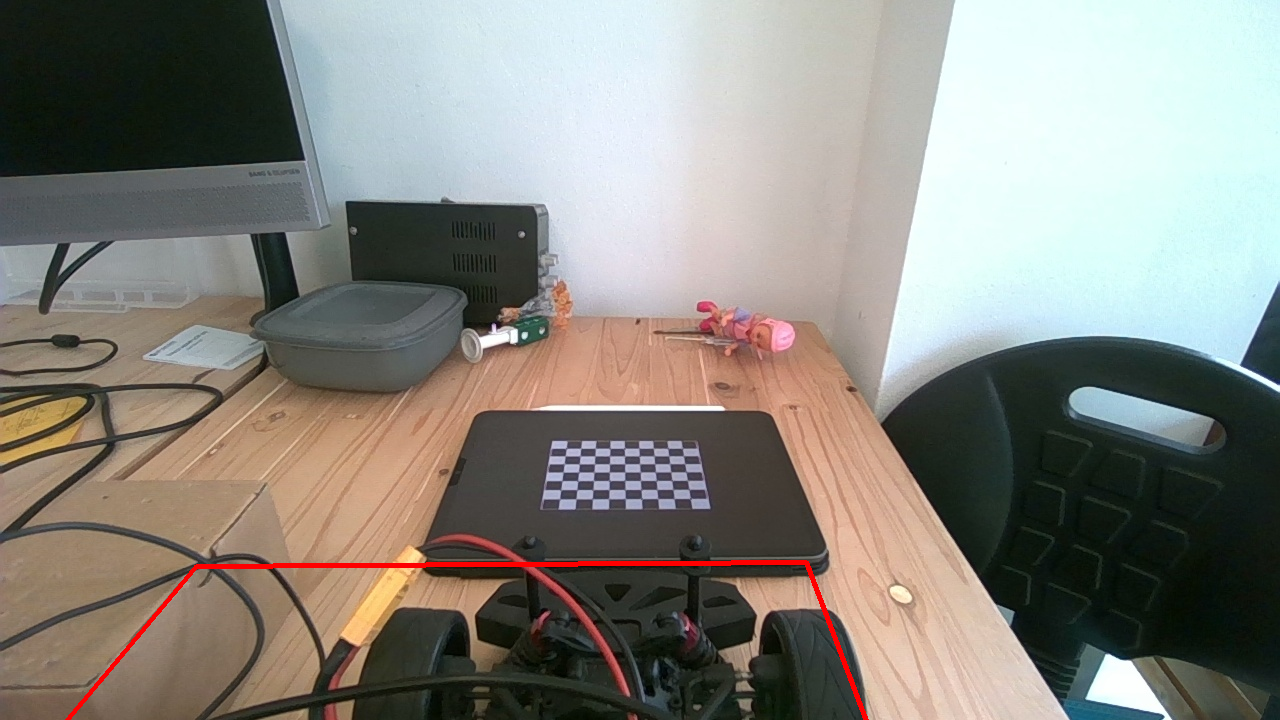
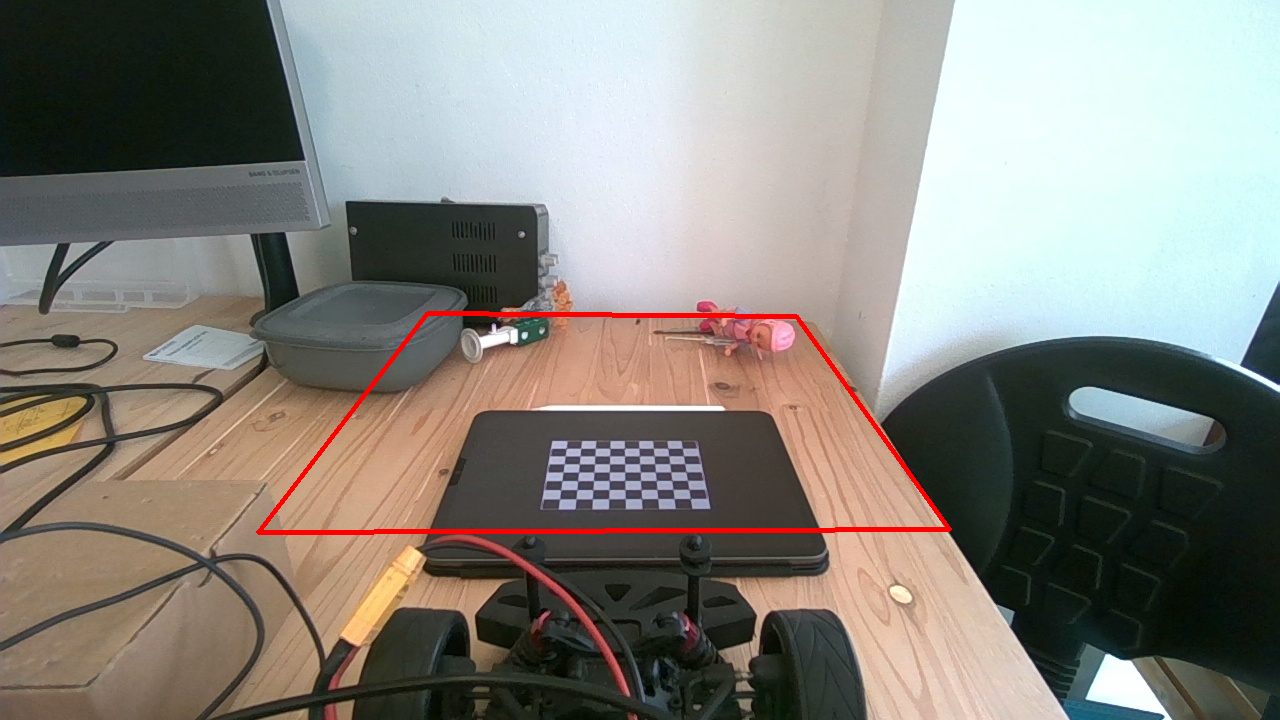
final roi

diff --git a/src/Params/solve_extrinsics_and_ipm.py b/src/Params/solve_extrinsics_and_ipm.py
@@ -10,8 +10,8 @@ BOARD_COLS, BOARD_ROWS = 9, 7
 SQUARE_SIZE_M = 0.011  # 1.1 cm
 
 # IPM 영역/스케일 (체커보드 평면 기준 [X(앞), Y(좌/우)])
-X_MIN, X_MAX = 0.13 , 0.4   # 차량 앞쪽 0 ~ 20cm
-Y_MIN, Y_MAX = -0.15 , 0.2  # 차량 좌우 -20 ~ +20cm
+X_MIN, X_MAX = -0.3 , 0.1   # 차량 좌우 0 ~ 20cm
+Y_MIN, Y_MAX = -0.25 , 0.18  # 차량 앞쪽 -20 ~ +20cm
 W_target, H_target = 1280, 720  # 목표 IPM 크기 (픽셀)
 INTERVAL_X = (X_MAX - X_MIN) / W_target
 INTERVAL_Y = (Y_MAX - Y_MIN) / H_target
